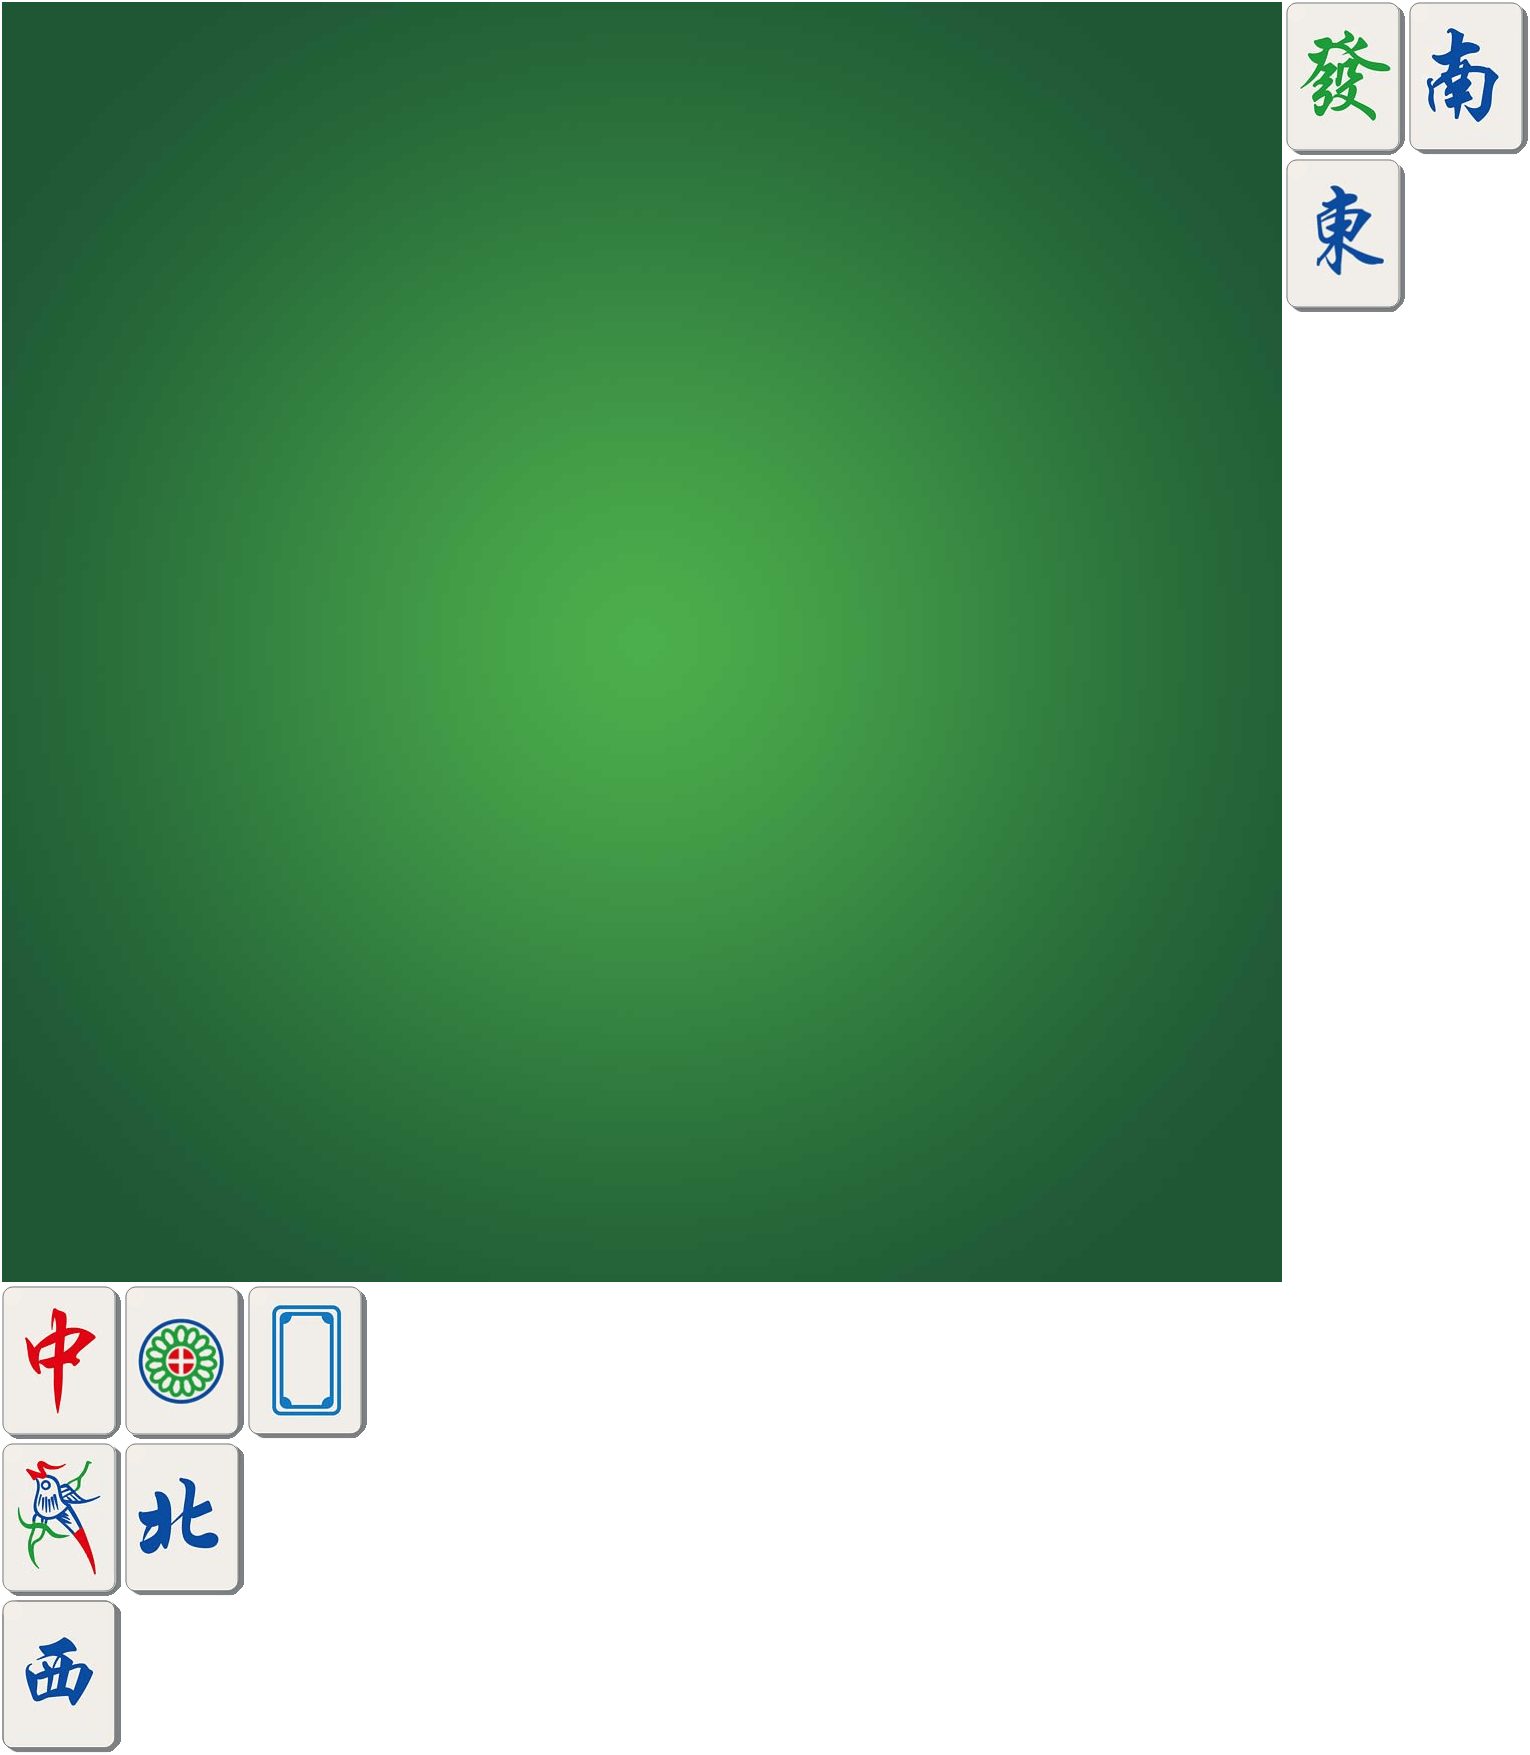
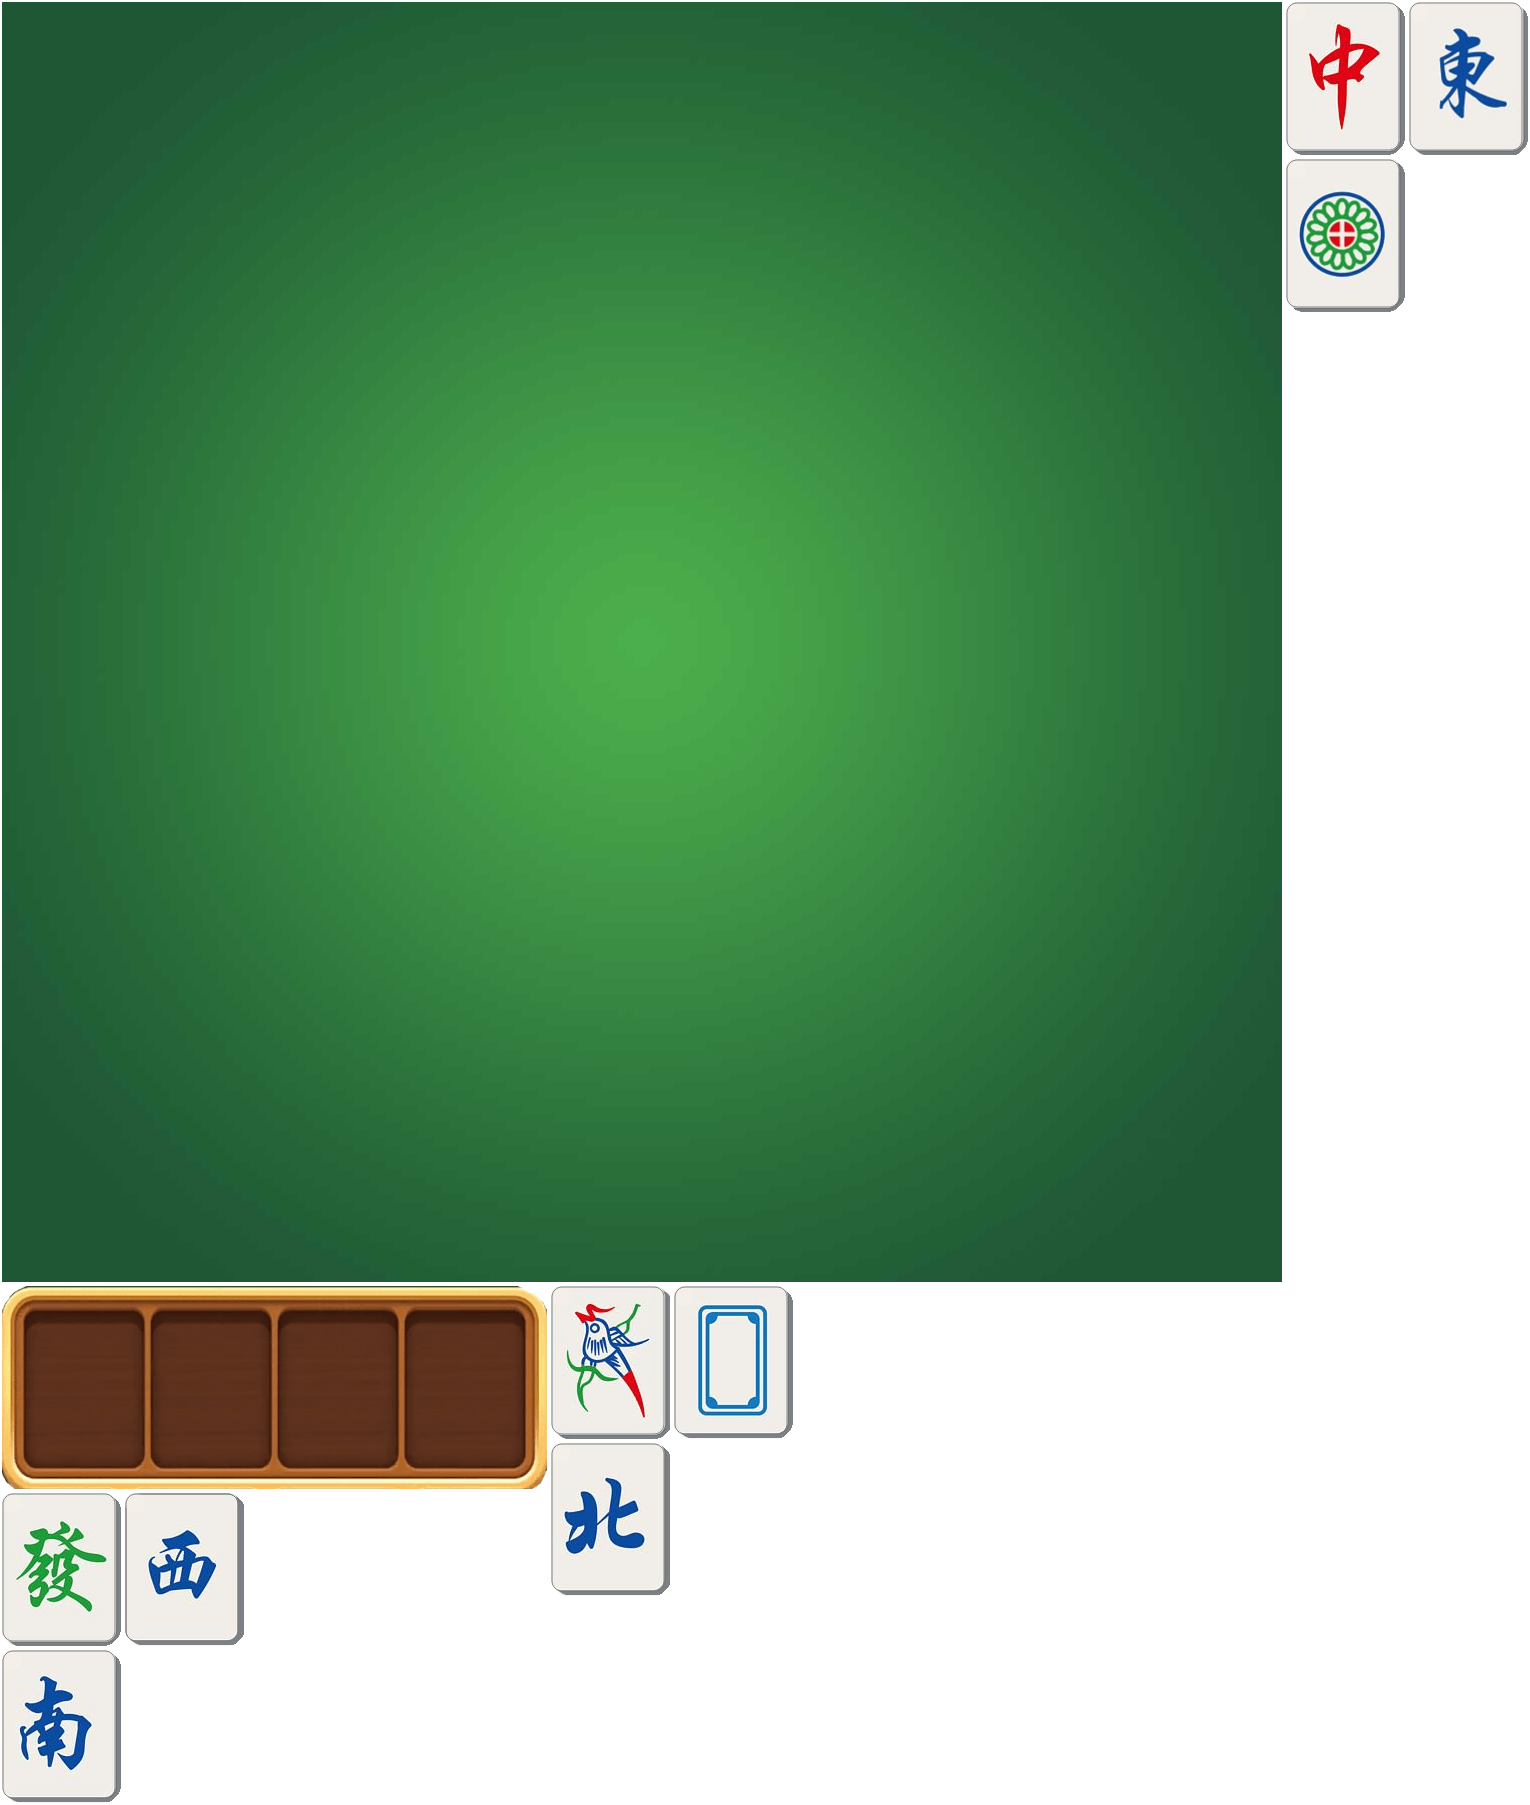
added pick step

Changed region(s): [[0.0, 0.7077, 0.8601, 0.9846], [0.8294, 0.0, 1.0, 0.1846]]

diff --git a/src/models/LevelModel.ts b/src/models/LevelModel.ts
@@ -1,3 +1,5 @@
+import { GameTile } from "../view/GameTile";
+
 interface ILevelGeneratorConfig {
 	layers: number;
 
@@ -83,6 +85,7 @@ export const LAYERING_MATRIX = [
 	[136, 154, 173, 193, 214, 236, 259, 283, 308, 334, 361, 389],
 	[153, 172, 192, 213, 235, 258, 282, 307, 333, 360, 388, 417],
 ];
+export type TileKey = `${number}-${number}-${number}`;
 
 export class LevelModel {
 	static instance: LevelModel;
@@ -96,26 +99,41 @@ export class LevelModel {
 	}
 
 	private readonly _config: ILevelGeneratorConfig = GENERATOR_CONFIG;
-
 	private _lvl = 1;
 	private _settings!: IMechanicSettings;
+	private _placedTiles = new Map<TileKey, GameTile>();
+	private _pickedTile!: ITileModel;
+
+	public setPlacedTiles(tiles: Map<TileKey, GameTile>): void {
+		this._placedTiles = tiles;
+	}
+
+	public getPlacedTiles(): Map<TileKey, GameTile> {
+		return this._placedTiles;
+	}
 
 	public getGeneralSettings(): ITileSettings {
 		return TILE_SETTINGS;
+	}
+
+	public setPickedTileData(pickedTile: ITileModel): void {
+		this._pickedTile = pickedTile;
 	}
 
 	public setUpLvl(newLvl: number): void {
 		this._lvl = newLvl;
 	}
 
-	public get lvl(): number {
-		return this._lvl;
-	}
+	// public get lvl(): number {
+	// 	return this._lvl;
+	// }
 
 	public getLvlMechanicSettings(): IMechanicSettings {
 		if (!this._settings) {
 			this.generateLvlMechanicSettings();
 		}
+
+		console.log(this._settings);
 
 		return this._settings;
 	}
@@ -399,5 +417,84 @@ export class LevelModel {
 		const zIndex = LAYERING_MATRIX[y][x] + layerIndex * LAYER_Z_OFFSET;
 
 		return zIndex;
+	}
+
+	public tileCanMove(tileModel: ITileModel): boolean {
+		const { geometryMatrix } = this.getLvlMechanicSettings();
+		const { layer, x, y } = tileModel;
+
+		const upperLayer = geometryMatrix[layer + 1];
+
+		if (upperLayer && this._hasBlockingTileAbove(upperLayer, x, y)) {
+			return false;
+		}
+
+		const currentLayer = geometryMatrix[layer];
+
+		if (!this._isSideBlocked(currentLayer, x, y, -1)) {
+			return true;
+		}
+
+		if (!this._isSideBlocked(currentLayer, x, y, 1)) {
+			return true;
+		}
+
+		return false;
+	}
+
+	private _hasBlockingTileAbove(
+		upperLayer: number[][],
+		x: number,
+		y: number,
+	): boolean {
+		for (let row = 0; row < this._config.tileHeight; row++) {
+			for (let col = 0; col < this._config.tileWidth; col++) {
+				if (upperLayer[y + row]?.[x + col] > 0) {
+					return true;
+				}
+			}
+		}
+
+		return false;
+	}
+
+	private _isSideBlocked(
+		layer: number[][],
+		x: number,
+		y: number,
+		direction: -1 | 1,
+	): boolean {
+		const sideX = direction === -1 ? x - 1 : x + this._config.tileWidth;
+
+		// Фішка знаходиться біля краю
+		if (sideX < 0 || sideX >= this._config.maxWidth) {
+			return false;
+		}
+
+		for (let row = 0; row < this._config.tileHeight; row++) {
+			if (layer[y + row]?.[sideX] === 0) {
+				return false;
+			}
+		}
+
+		return true;
+	}
+
+	public removeTile(tileModel: ITileModel): void {
+		const settings = this.getLvlMechanicSettings();
+
+		const { geometryMatrix, typeMatrix } = settings;
+		const { id, layer } = tileModel;
+
+		for (let y = 0; y < geometryMatrix[layer].length; y++) {
+			for (let x = 0; x < geometryMatrix[layer][y].length; x++) {
+				if (geometryMatrix[layer][y][x] === id) {
+					geometryMatrix[layer][y][x] = 0;
+					typeMatrix[layer][y][x] = 0;
+				}
+			}
+		}
+
+		settings.tiles = settings.tiles.filter((tile) => tile.id !== id);
 	}
 }

diff --git a/src/view/GameTile.ts b/src/view/GameTile.ts
@@ -2,6 +2,8 @@ import {
 	StandardSprite,
 	StandardSpriteConfig,
 } from "../libs/gameObjects/StandardSprite";
+import { Signal } from "../libs/utils/Signal";
+import { UserInteractionDispatcher } from "../libs/utils/UserInteractionDispatcher";
 import {
 	GENERATOR_CONFIG,
 	ITileModel,
@@ -19,7 +21,10 @@ export interface GameTileConfig extends StandardSpriteConfig {
 }
 
 export class GameTile extends StandardSprite<GameTileConfig> {
+	public readonly onPickSignal = new Signal();
 	public readonly type: number;
+	private _dispatcher!: UserInteractionDispatcher;
+	private _tileModel!: ITileModel;
 
 	constructor(config: GameTileConfig) {
 		super(config);
@@ -31,9 +36,18 @@ export class GameTile extends StandardSprite<GameTileConfig> {
 		super.build();
 
 		this.anchor.set(0, 0);
+		const dispatcher = (this._dispatcher = new UserInteractionDispatcher(this));
+		dispatcher.pointerDownSignal.add(this._onPointed, this);
+	}
+
+	_onPointed(): void {
+		console.log(this._tileModel);
+
+		this.onPickSignal.dispatch(this._tileModel);
 	}
 
 	public setPosition(tileModel: ITileModel): void {
+		this._tileModel = tileModel;
 		this.x =
 			tileModel.x * (TILE_WIDTH / GENERATOR_CONFIG.tileWidth) -
 			LAYER_OFFSETS.x * tileModel.layer;

diff --git a/src/controllers/steps/PlaceTileStep.ts b/src/controllers/steps/PlaceTileStep.ts
@@ -4,6 +4,8 @@ import {
 } from "../../libs/controllers/steps/BaseStep";
 import { StandardContainer } from "../../libs/gameObjects/StandardContainer";
 import { GameTilePool } from "../../libs/utils/GameTilePool";
+import { TileKey } from "../../models/LevelModel";
+import { GameTile } from "../../view/GameTile";
 
 export interface PlaceTilesStepParams extends BaseStepParams {
 	parent: StandardContainer;
@@ -15,9 +17,11 @@ export class PlaceTilesStep<
 > extends BaseStep<T> {
 	protected _start({ parent, pool }: T): void {
 		const tiles = this._models.levelModel.getLvlMechanicSettings().tiles;
+		const placedTiles = new Map<TileKey, GameTile>();
 
 		for (const tileModel of tiles) {
 			const tile = pool.acquire(tileModel.type);
+
 			tile.setPosition(tileModel);
 
 			tile.zIndex = this._models.levelModel.getTileZIndex(
@@ -27,9 +31,14 @@ export class PlaceTilesStep<
 			);
 
 			parent.addChild(tile);
+
+			const key = `${tileModel.x}-${tileModel.y}-${tileModel.layer}` as TileKey;
+			placedTiles.set(key, tile);
 		}
 
 		parent.sortChildren();
+
+		this._models.levelModel.setPlacedTiles(placedTiles);
 
 		this._complete();
 	}

diff --git a/src/libs/controllers/steps/AwaitOnUserActionStep.ts b/src/libs/controllers/steps/AwaitOnUserActionStep.ts
@@ -1,0 +1,41 @@
+import { ITileModel } from "../../../models/LevelModel";
+import { GameTile } from "../../../view/GameTile";
+import { BaseStep, BaseStepParams } from "./BaseStep";
+
+export class AwaitOnUserActionStep extends BaseStep<BaseStepParams> {
+	private _tiles: GameTile[] = [];
+
+	protected _start(): void {
+		const placedTiles = this._models.levelModel.getPlacedTiles();
+
+		this._tiles = [...placedTiles.values()];
+
+		this._tiles.forEach((tile) => {
+			tile.onPickSignal.add(this._onTilePicked, this);
+		});
+	}
+
+	private _onTilePicked(tileModel: ITileModel): void {
+		const levelModel = this._models.levelModel;
+
+		if (!levelModel.tileCanMove(tileModel)) {
+			console.warn("===== NO =======");
+			return;
+		}
+
+		console.warn("===== YES =======");
+		levelModel.setPickedTileData(tileModel);
+		levelModel.removeTile(tileModel);
+
+		this._unsubscribe();
+		this._complete();
+	}
+
+	private _unsubscribe(): void {
+		this._tiles.forEach((tile) => {
+			tile.onPickSignal.removeAll();
+		});
+
+		this._tiles.length = 0;
+	}
+}

diff --git a/src/controllers/BaseGameController.ts b/src/controllers/BaseGameController.ts
@@ -1,5 +1,6 @@
 import { IGameView } from "../factories/GameViewFactory";
 import { Controller, IControllerParams } from "../libs/controllers/Controller";
+import { AwaitOnUserActionStep } from "../libs/controllers/steps/AwaitOnUserActionStep";
 import { AwaitTimeStep } from "../libs/controllers/steps/AwaitTimeStep";
 // import { Signal } from "../libs/utils/Signal";
 import { UserInteractionDispatcher } from "../libs/utils/UserInteractionDispatcher";
@@ -38,6 +39,10 @@ export class BaseGameController extends Controller<IControllerBaseParams> {
 			parent: this._params!.gameView.tileContainer,
 			pool: this._params!.gameView.tilePool,
 		});
+
+		while (true) {
+			await new AwaitOnUserActionStep().start();
+		}
 
 		await new AwaitTimeStep().start({
 			delay: 200.0,

diff --git a/src/Game.ts b/src/Game.ts
@@ -8,12 +8,6 @@ import { StandardContainer } from "./libs/gameObjects/StandardContainer";
 import { ViewPort } from "./libs/gameObjects/IGameObject";
 import { GAME_DIMENSIONS, GAME_DIMENSIONS_PORTRAIT } from "./gameConfig";
 
-// export const GAME_DIMENSIONS = {
-// 	width: widthGame,
-// 	height: heightGame,
-// 	halfWidth: widthGame / 2,
-// };
-
 export class Game {
 	private _stage: Container;
 	// private _view: HTMLCanvasElement;
